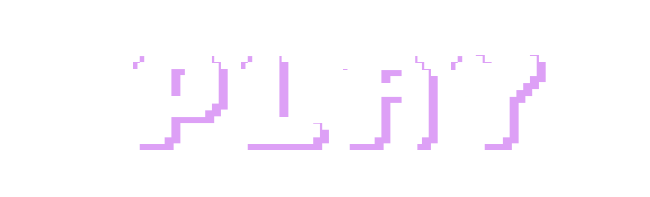
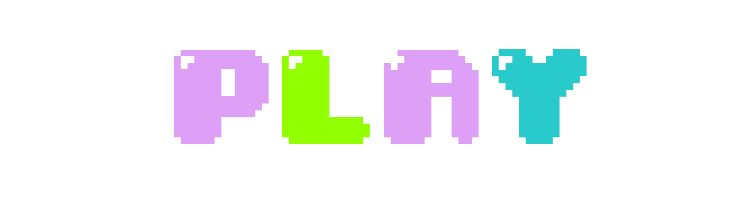
changed gravity value for some planets, game title now fades in color

Changed region(s): [[0.1846, 0.2437, 0.8615, 0.7614]]

diff --git a/src/game.js b/src/game.js
@@ -69,8 +69,8 @@ var level = [
         {objectType: 'player', x: -240, y: -150}
     
     ], // level 0
-    [ //level 9 - crazy gears
-        {objectType: 'planet', x: 0, y: 0, gravRadius: 400, gravForce: 350, sprite: "level1_planet1"},
+    [ //level 1 - crazy gears
+        {objectType: 'planet', x: 0, y: 0, gravRadius: 350, gravForce: 200, sprite: "level1_planet1"},
         {objectType: 'teleporter', x: 0, y: -290, radians: 0, goal: 42},
         {objectType: 'startPad', x: -55, y: 300, radians: -2.7},
         {objectType: 'gear', x: 0, y: 200, sprite: "gear"},
@@ -117,41 +117,40 @@ var level = [
         {objectType: 'gear', x: -200, y: -10, sprite: "gear"},
         {objectType: 'player', x: -90, y: 360},
         {objectType: 'hint', text: "mmmmmwwwwahahahahahaha", delay: 1}
-    ], // level 9 - crazy gears
-    [//level 1 - jumping between planets
+    ], // level 2 - crazy gears
+    [//level 3 - jumping between planets
         {objectType: 'planet', x: -280, y: -100, gravRadius: 250, gravForce: 350, sprite: "smallstar"},
-        {objectType: 'planet', x: 200, y: 220, gravRadius: 400, gravForce: 350, sprite: "starplanet"},
+        {objectType: 'planet', x: 200, y: 220, gravRadius: 350, gravForce: 350, sprite: "starplanet"},
         {objectType: 'teleporter', x: 150, y: 10, radians: -0.2, goal: 3},
         {objectType: 'startPad', x: -425, y: -50 , radians:1.15 + Math.PI},
         {objectType: 'gear', x: -350, y: -200, sprite: "gear"},
         {objectType: 'gear', x: -200, y: -150, sprite: "gear"},
         {objectType: 'gear', x: -220, y: 10, sprite: "gear"},
         {objectType: 'player', x: -430, y: -50}
-    ], // level 1 - jumping between planets
-    [//level 2 - start in void
+    ], // level 3 - jumping between planets
+    [//level 4 - start in void
         {objectType: 'planet', x: -300, y: -50, gravRadius: 250, gravForce: 250, sprite: "axoplanet"},
-        {objectType: 'planet', x: 400, y: 400, gravRadius: 400, gravForce: 350, sprite: "fishplanet"},
+        {objectType: 'planet', x: 400, y: 400, gravRadius: 350, gravForce: 350, sprite: "fishplanet"},
         {objectType: 'teleporter', x: 500, y: 210, radians: 0.5, goal: 3},
         {objectType: 'startPad', x: 20, y: -15 , radians: 0},
         {objectType: 'gear', x: -350, y: -200, sprite: "gear"},
         {objectType: 'gear', x: -200, y: -150, sprite: "gear"},
         {objectType: 'gear', x: -220, y: 10, sprite: "gear"},
         {objectType: 'player', x: 23, y: -30}
-    ], // level 2 - start in void
-    [//level 3 - jumping to planets through void
-        {objectType: 'planet', x: -440, y: -120, gravRadius: 260, gravForce: 600, sprite: "soccerplanet"},
+    ], // level 4 - start in void
+    [//level 5 - jumping to planets through void
+        {objectType: 'planet', x: -440, y: -120, gravRadius: 260, gravForce: 350, sprite: "soccerplanet"},
         {objectType: 'planet', x: 260, y: 250, gravRadius: 270, gravForce: 250, sprite: "tennisplanet"},
-        {objectType: 'planet', x: 60, y: -180, gravRadius: 200, gravForce: 740, sprite: "baseballplanet"},
+        {objectType: 'planet', x: 60, y: -180, gravRadius: 200, gravForce: 350, sprite: "baseballplanet"},
         {objectType: 'teleporter', x: 385, y: 140, radians: 0.9, goal: 2},
         {objectType: 'startPad', x: 60, y: 215, radians: 1.8 + Math.PI },
         {objectType: 'gear', x: 100, y: -50, sprite: "gear"},
         {objectType: 'gear', x: -180, y: -150, sprite: "gear"},
         {objectType: 'player', x: 0, y: 200}
-    ], // level 3 - jumping to planets through void
-    [ //level 13 - gears in void
-        {objectType: 'planet', x: 0, y: 0, gravRadius: 200, gravForce: 500, sprite: "smallstar"},
-        {objectType: 'planet', x: 900, y: 900, gravRadius: 230, gravForce: 600, sprite: "smallstar"},
-
+    ], // level 5 - jumping to planets through void
+    [ //level 6 - gears in void
+        {objectType: 'planet', x: 0, y: 0, gravRadius: 200, gravForce: 350, sprite: "smallstar"},
+        {objectType: 'planet', x: 900, y: 900, gravRadius: 230, gravForce: 350, sprite: "smallstar"},
         {objectType: 'teleporter', x: 785, y: 785, radians: 5.45, goal: 7}, //317, 90
         {objectType: 'startPad', x: 0, y: -160, radians: 6.2 },
         {objectType: 'gear', x: 150, y: 30, sprite: "gear"},
@@ -163,10 +162,10 @@ var level = [
         {objectType: 'gear', x: 920, y:750, sprite: "gear"},
         {objectType: 'player', x: 0, y: -230},
         {objectType: 'hint', text: "There's an enemy\nguarding this planet!", delay: 1}
-    ], //level 13 - gears in void
-    [ //level 4 - enemy introduction
-        {objectType: 'planet', x: -170, y: -400, gravRadius: 220, gravForce: 400, sprite: "rainbowplanet"},
-        {objectType: 'planet', x: 200, y: -80, gravRadius: 220, gravForce: 370, sprite: "otherrainbow"},
+    ], //level 6 - gears in void
+    [ //level 7 - enemy introduction
+        {objectType: 'planet', x: -170, y: -400, gravRadius: 220, gravForce: 350, sprite: "rainbowplanet"},
+        {objectType: 'planet', x: 200, y: -80, gravRadius: 220, gravForce: 350, sprite: "otherrainbow"},
         {objectType: 'planet', x: 280, y: 350, gravRadius: 200, gravForce: 240, sprite: "smallrainbow"},
         {objectType: 'teleporter', x: 440, y: 350, radians: 1.6, goal: 2}, //317, 90
         {objectType: 'startPad', x: -330, y: -540, radians: -0.8 },
@@ -174,9 +173,9 @@ var level = [
         {objectType: 'gear', x: 100, y:-50, sprite: "gear"},
         {objectType: 'player', x: -360, y: -570},
         {objectType: 'enemy1' , x:-110, y: -240, enemyVel: 25, sprite: "enemy"}
-    ], // level 4 - enemy introduction
-    [ //level 10 - enemy hard
-        {objectType: 'planet', x: 0, y: 0, gravRadius: 400, gravForce: 600, sprite: "smallstar"},
+    ], // level 7 - enemy introduction
+    [ //level 8 - enemy hard
+        {objectType: 'planet', x: 0, y: 0, gravRadius: 350, gravForce: 350, sprite: "smallstar"},
         {objectType: 'teleporter', x: 115, y: 115, radians: 2.4, goal: 2}, //317, 90
         {objectType: 'startPad', x: -90, y: 160, radians: -3 },
         {objectType: 'gear', x: -83, y: -83, sprite: "gear"},
@@ -185,9 +184,9 @@ var level = [
         {objectType: 'enemy1' , x:110, y: -110, enemyVel: 15, sprite: "enemy"},
         {objectType: 'enemy2' , x:-110, y: 110, enemyVel: 15, sprite: "enemy"},
         {objectType: 'hint', text: "There's an enemy\nguarding this planet!", delay: 1}
-    ], // level 10 - small planet with two enemies
-    [ //level 5 - fun with overlapping gravity fields
-        {objectType: 'planet', x: 200,y: 100, gravRadius: 260, gravForce: 390, sprite: "wafelplanet"},
+    ], // level 8 - small planet with two enemies
+    [ //level 9 - fun with overlapping gravity fields
+        {objectType: 'planet', x: 200,y: 100, gravRadius: 260, gravForce: 350, sprite: "wafelplanet"},
         {objectType: 'planet', x: 140, y: 610, gravRadius: 190, gravForce: 330, sprite: "donutplanet"},
         {objectType: 'planet', x: 400, y: -380, gravRadius: 200, gravForce: 300, sprite: "orangeplanet"},
         {objectType: 'planet', x: 860, y: -470, gravRadius: 200, gravForce: 300, sprite: "cinnamonplanet"},
@@ -198,20 +197,20 @@ var level = [
         {objectType: 'gear', x: 860, y: -480, sprite: "gear"},
         {objectType: 'player', x: -45, y: -25},
         {objectType: 'enemy1', x: 400, y: -20, enemyVel: 25, sprite: "enemy"}
-    ], // level 5 - fun with overlapping gravity fields
-    [ //level 11 - circular planet chains
-        {objectType: 'planet', x: 0, y: 0, gravRadius: 220, gravForce: 600, sprite: "smallstar"},
-        {objectType: 'planet', x: 220, y: 420, gravRadius: 220, gravForce: 600, sprite: "mediumplanet"},
-        {objectType: 'planet', x: -170, y: 750, gravRadius: 220, gravForce: 600, sprite: "treasureSmall"},
-        {objectType: 'planet', x: -650, y: 420, gravRadius: 220, gravForce: 400, sprite: "purplePlanet"},
-        {objectType: 'planet', x: -730, y: -230, gravRadius: 240, gravForce: 450, sprite: "treasureBig"},
+    ], // level 9 - fun with overlapping gravity fields
+    [ //level 10 - circular planet chains
+        {objectType: 'planet', x: 0, y: 0, gravRadius: 220, gravForce: 350, sprite: "smallstar"},
+        {objectType: 'planet', x: 220, y: 420, gravRadius: 220, gravForce: 350, sprite: "mediumplanet"},
+        {objectType: 'planet', x: -170, y: 750, gravRadius: 220, gravForce: 350, sprite: "treasureSmall"},
+        {objectType: 'planet', x: -650, y: 420, gravRadius: 220, gravForce: 350, sprite: "purplePlanet"},
+        {objectType: 'planet', x: -730, y: -230, gravRadius: 240, gravForce: 350, sprite: "treasureBig"},
         {objectType: 'teleporter', x: -650, y: 50, radians: 2.85, goal: 1}, //317, 90
         {objectType: 'startPad', x: -100, y: 120, radians: -2.5 },
         {objectType: 'gear', x: -480, y: -230, sprite: "gear"},
         {objectType: 'player', x: -130, y: 100},
         {objectType: 'hint', text: "There's an enemy\nguarding this planet!", delay: 1}
-    ], //level 11 - circular planet chains
-    [ //level 8 - find the hidden gear
+    ], //level 10 - circular planet chains
+    [ //level 11 - find the hidden gear
         {objectType: 'planet', x: 0, y: 0, gravRadius: 300, gravForce: 300, sprite: "treasureBig"},
         {objectType: 'planet', x: -20, y: 640, gravRadius: 200, gravForce: 300, sprite: "treasureSmall"},
         {objectType: 'planet', x: 0, y: 1150, gravRadius: 200, gravForce: 300, sprite: "treasureSmall"},
@@ -225,11 +224,11 @@ var level = [
         {objectType: 'gear', x: 0, y: 1265, sprite: "gear"},
         {objectType: 'player', x: 150, y: 300},
         {objectType: 'hint', text: "It is near.", delay: 1}
-    ], // level 8 - find hidden gear
-    [ //level 6 - two enemies
+    ], // level 11 - find hidden gear
+    [ //level 12 - two enemies
         {objectType: 'planet', x: 0, y: 0, gravRadius: 230, gravForce: 350, sprite: "roseplanet"},
-        {objectType: 'planet', x: 400, y: -230, gravRadius: 230, gravForce: 600, sprite: "hydrangea"},
-        {objectType: 'planet', x: 400, y: 230, gravRadius: 230, gravForce: 600, sprite: "lilac"},
+        {objectType: 'planet', x: 400, y: -230, gravRadius: 230, gravForce: 350, sprite: "hydrangea"},
+        {objectType: 'planet', x: 400, y: 230, gravRadius: 230, gravForce: 350, sprite: "lilac"},
         {objectType: 'planet', x: 800, y: 0, gravRadius: 230, gravForce: 350, sprite: "hibiscus"},
         {objectType: 'teleporter', x: 950, y: -70, radians: 1.1, goal: 4},
         {objectType: 'startPad', x: -190, y: 0, radians: -1.5},
@@ -240,13 +239,13 @@ var level = [
         {objectType: 'player', x: -240, y: 0},
         {objectType: 'enemy1', x: 450, y: 180, enemyVel: 15, sprite: "enemy"},
         {objectType: 'enemy2', x: 450, y: -180, enemyVel: 15, sprite: "enemy"}
-    ], // level 6 - two enemies
-    [ //level 7 - two enemies circling center planet
-        {objectType: 'planet', x: 0, y: 0, gravRadius: 250, gravForce: 500, sprite: "catplanet"},
-        {objectType: 'planet', x: 0, y: -470, gravRadius: 200, gravForce: 700, sprite: "blueyarn"},
-        {objectType: 'planet', x: 0, y: 470, gravRadius: 200, gravForce: 700, sprite: "redyarn"},
-        {objectType: 'planet', x: 470, y: 0, gravRadius: 200, gravForce: 700, sprite: "greenyarn"},
-        {objectType: 'planet', x: -470, y: 0, gravRadius: 200, gravForce: 700, sprite: "purpleyarn"},
+    ], // level 12 - two enemies
+    [ //level 13 - two enemies circling center planet
+        {objectType: 'planet', x: 0, y: 0, gravRadius: 250, gravForce: 350, sprite: "catplanet"},
+        {objectType: 'planet', x: 0, y: -470, gravRadius: 200, gravForce: 350, sprite: "blueyarn"},
+        {objectType: 'planet', x: 0, y: 470, gravRadius: 200, gravForce: 350, sprite: "redyarn"},
+        {objectType: 'planet', x: 470, y: 0, gravRadius: 200, gravForce: 350, sprite: "greenyarn"},
+        {objectType: 'planet', x: -470, y: 0, gravRadius: 200, gravForce: 350, sprite: "purpleyarn"},
         {objectType: 'teleporter', x: 100, y: 150, radians: 2.6, goal: 4},
         {objectType: 'startPad', x: -100, y: 200, radians: -2.8},
         {objectType: 'gear', x: 100, y: 300, sprite: "gear"},
@@ -256,29 +255,29 @@ var level = [
         {objectType: 'player', x: -160, y: 230},
         {objectType: 'enemy1', x: -150, y: 0, enemyVel: 25, sprite: "enemy"},
         {objectType: 'enemy2', x: 150, y: 0, enemyVel: 45, sprite: "enemy"}
-    ], // level 7 - two enemies circling center planet
-    [ //level 12 - maze
-        {objectType: 'planet', x: -1000, y: 0, gravRadius: 200, gravForce: 750, sprite: "smallstar"}, //base
-        {objectType: 'planet', x: -800, y: -370, gravRadius: 200, gravForce: 750, sprite: "smallstar"}, //1
-        {objectType: 'planet', x: -480, y: -630, gravRadius: 200, gravForce: 750, sprite: "smallstar"}, //2
-        {objectType: 'planet', x: -1000, y: -730, gravRadius: 200, gravForce: 750, sprite: "smallstar"}, //2
-        {objectType: 'planet', x: -1400, y: -840, gravRadius: 200, gravForce: 750, sprite: "tennisplanet"}, //3
-        {objectType: 'planet', x: -900, y: -1150, gravRadius: 200, gravForce: 750, sprite: "tennisplanet"}, //3
-        {objectType: 'planet', x: -200, y: -950, gravRadius: 200, gravForce: 750, sprite: "tennisplanet"}, //3
-        {objectType: 'planet', x: -800, y: 370, gravRadius: 200, gravForce: 700, sprite: "smallstar"}, //1
-        {objectType: 'planet', x: -480, y: 630, gravRadius: 200, gravForce: 700, sprite: "smallstar"}, //2
-        {objectType: 'planet', x: -1000, y: 730, gravRadius: 200, gravForce: 700, sprite: "smallstar"}, //2
-        {objectType: 'planet', x: -100, y: 450, gravRadius: 200, gravForce: 600, sprite: "tennisplanet"}, //3
-        {objectType: 'planet', x: -300, y: 1000, gravRadius: 200, gravForce: 600, sprite: "tennisplanet"}, //3
-        {objectType: 'planet', x: -850, y: 1150, gravRadius: 200, gravForce: 600, sprite: "tennisplanet"}, //3
-        {objectType: 'planet', x: -1425, y: 800, gravRadius: 200, gravForce: 600, sprite: "tennisplanet"}, //3
+    ], // level 13 - two enemies circling center planet
+    [ //level 14 - maze
+        {objectType: 'planet', x: -1000, y: 0, gravRadius: 200, gravForce: 350, sprite: "smallstar"}, //base
+        {objectType: 'planet', x: -800, y: -370, gravRadius: 200, gravForce: 350, sprite: "smallstar"}, //1
+        {objectType: 'planet', x: -480, y: -630, gravRadius: 200, gravForce: 350, sprite: "smallstar"}, //2
+        {objectType: 'planet', x: -1000, y: -730, gravRadius: 200, gravForce: 350, sprite: "smallstar"}, //2
+        {objectType: 'planet', x: -1400, y: -840, gravRadius: 200, gravForce: 350, sprite: "tennisplanet"}, //3
+        {objectType: 'planet', x: -900, y: -1150, gravRadius: 200, gravForce: 350, sprite: "tennisplanet"}, //3
+        {objectType: 'planet', x: -200, y: -950, gravRadius: 200, gravForce: 350, sprite: "tennisplanet"}, //3
+        {objectType: 'planet', x: -800, y: 370, gravRadius: 200, gravForce: 350, sprite: "smallstar"}, //1
+        {objectType: 'planet', x: -480, y: 630, gravRadius: 200, gravForce: 350, sprite: "smallstar"}, //2
+        {objectType: 'planet', x: -1000, y: 730, gravRadius: 200, gravForce: 350, sprite: "smallstar"}, //2
+        {objectType: 'planet', x: -100, y: 450, gravRadius: 200, gravForce: 350, sprite: "tennisplanet"}, //3
+        {objectType: 'planet', x: -300, y: 1000, gravRadius: 200, gravForce: 350, sprite: "tennisplanet"}, //3
+        {objectType: 'planet', x: -850, y: 1150, gravRadius: 200, gravForce: 350, sprite: "tennisplanet"}, //3
+        {objectType: 'planet', x: -1425, y: 800, gravRadius: 200, gravForce: 350, sprite: "tennisplanet"}, //3
         {objectType: 'teleporter', x: -1400, y: 955, radians: 2.95, goal: 2}, //317, 90
         {objectType: 'startPad', x: -1000, y: -160, radians: 6.2 },
         {objectType: 'gear', x: -1450, y:-700, sprite: "gear"},
         {objectType: 'gear', x: -350, y:-1000, sprite: "gear"},
         {objectType: 'player', x: -1000, y: -230},
         {objectType: 'hint', text: "There's an enemy\nguarding this planet!", delay: 1}
-    ] //level 12 - maze
+    ] //level 14 - maze
 ];
 
 playGame.prototype = {
@@ -385,7 +384,7 @@ playGame.prototype = {
         game.time.desiredFps = 80;
 
         //tiled background image to cover a wide enough area
-        background = game.add.tileSprite(-2024, -2024, 1024, 1024, 'space');
+        var background = game.add.tileSprite(-2024, -2024, 1024, 1024, 'space');
         game.add.tileSprite(-2024, -1000, 1024, 1024, 'space');
         game.add.tileSprite(-2024, 24, 1024, 1024, 'space');
         game.add.tileSprite(-2024, 1048, 1024, 1024, 'space');

diff --git a/src/mainmenu.js b/src/mainmenu.js
@@ -44,13 +44,30 @@ mainMenu.prototype = {
         menuBGM.volume = 0.6;
         menuBGM.play();
 
-        var title = game.add.sprite(70, 4, "newTitle");
-        title.scale.x = 0.8;
-        title.scale.y = 0.8;
-        title.animations.add('beaming',[0,1,2],10, true);
-        title.animations.play('beaming');
+        // var title = game.add.sprite(70, 4, "newTitle");
+        // title.scale.x = 0.8;
+        // title.scale.y = 0.8;
+        // title.animations.add('beaming',[0,1,2],3, true);
+        // title.animations.play('beaming');
+        for (var i = 0; i < 3; i++) {
+            var item1 = game.add.sprite(70, 4, 'newTitle', i);
+            item1.alpha = 1;
+            item1.scale.x = 0.8;
+            item1.scale.y = 0.8;
+            var tween1 = game.add.tween(item1).to({alpha:0}, 2000, Phaser.Easing.Linear.None, true, 0, false);
+            tween1.yoyo(true, 1000);
+            var j = i + 1;
+            if (j === 3){j = 0;}
+            var item2 = game.add.sprite(70, 4, 'newTitle', j);
+            item2.alpha = 0;
+            item2.scale.x = 0.8;
+            item2.scale.y = 0.8;
+            var tween2 = game.add.tween(item2).to({alpha:1}, 2000, Phaser.Easing.Linear.None, true, 0, false);
+            tween2.yoyo(true, 1000);
+        }
 
-        playButton = game.add.button(220,560,"newPlay",playTheGame,this);
+
+        playButton = game.add.button(200,560,"newPlay",playTheGame,this);
         playButton.scale.x = 0.4;
         playButton.scale.y = 0.4;
         playButton.inputEnabled = true;

diff --git a/src/levelselect.js b/src/levelselect.js
@@ -241,8 +241,14 @@ levelSelect.prototype = {
     },
     update:function() {
         levelBackground.tilePosition.x -= 1;
-        if (screen2 == true) {levelBackground2.tilePosition.x -= 1;};
-        
+        if (screen2 == true) {levelBackground2.tilePosition.x -= 1;}
+
+        if (nextArrowR.input.pointerOver()) {nextArrowR.alpha=0.7;}
+        else {nextArrowR.alpha=1;}
+
+        if (nextArrowL.input.pointerOver()) {nextArrowL.alpha=0.7;}
+        else {nextArrowL.alpha=1;}
+
         if (oneButton.input.pointerOver()) {oneButton.alpha=0.7;}
         else {oneButton.alpha=1;}
         

diff --git a/src/levelChanger.js b/src/levelChanger.js
@@ -147,7 +147,9 @@ var LevelChanger = function(game){
 
     function addUI(){
         dashboard = game.add.sprite(0, 354,"dashboard");
+        // dashboard = game.add.sprite(0, 330,"dashboard");
         dashboard.anchor.set(0.5);
+        // dashboard.scale.setTo(1.6, 1.6);
         userInterface.add(dashboard);
         mute = game.add.button(0, 354,"mute", helper.muteSound,this);
         mute.inputEnabled = true;
